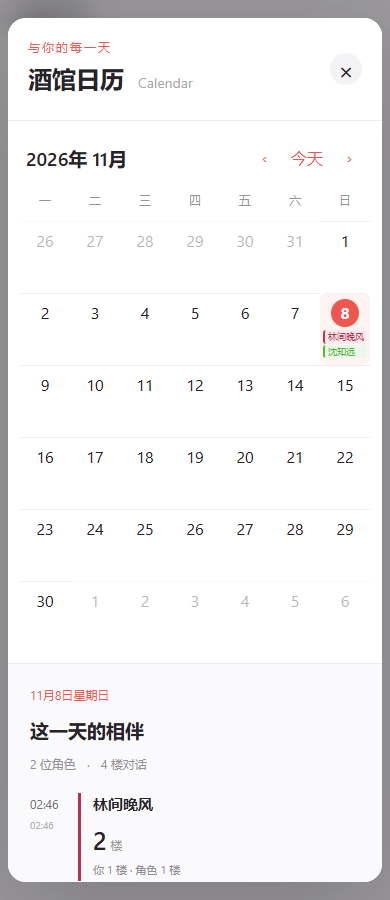
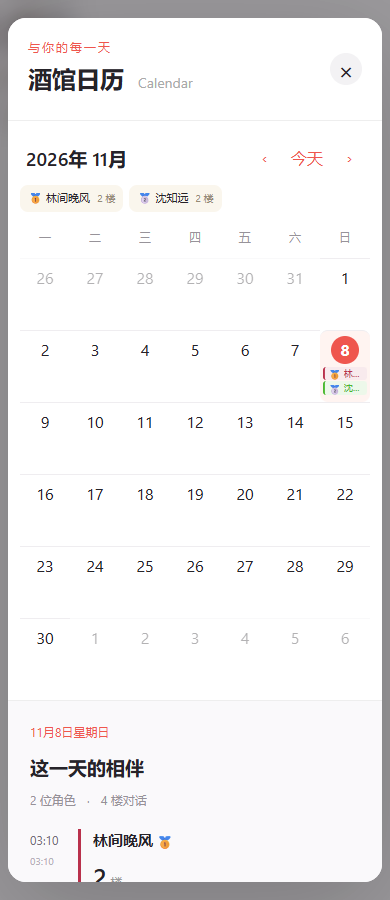
Add chat archive navigation and monthly top-three medals

diff --git a/index.js b/index.js
@@ -13,16 +13,52 @@
  const esc = s => String(s ?? '').replace(/[&<>"']/g,c=>({'&':'&amp;','<':'&lt;','>':'&gt;','"':'&quot;',"'":'&#39;'}[c]));
  const color = s => {let h=0; for(const c of s) h=(h*31+c.charCodeAt(0))|0; return `hsl(${Math.abs(h)%360} 58% 46%)`;};
  let days={}, selected=key(new Date()), month=new Date(new Date().getFullYear(),new Date().getMonth(),1), busy=false, status='点击刷新，读取历史聊天', scanned=false, lastFocus;
- function aggregate(target, seen, char, messages) {
+ function aggregate(target, seen, char, messages, fileName='') {
    for(const m of messages) {
      if(typeof m?.mes!=='string'||m.is_system) continue;
      const d=dateOf(m.send_date); if(!d) continue;
      const fingerprint=JSON.stringify([d.getTime(),!!m.is_user,m.mes]);
-     if(seen.has(fingerprint)) continue; seen.add(fingerprint);
      const bucket=target[key(d)] ||= {};
-     const item=bucket[char.avatar] ||= {name:char.name,avatar:char.avatar,user:0,char:0,first:d.getTime(),last:d.getTime()};
+     const item=bucket[char.avatar] ||= {name:char.name,avatar:char.avatar,user:0,char:0,first:d.getTime(),last:d.getTime(),files:[]};
+     if(fileName&&!item.files.includes(fileName))item.files.push(fileName);
+     if(seen.has(fingerprint)) continue; seen.add(fingerprint);
      item[m.is_user?'user':'char']++; item.first=Math.min(item.first,d.getTime()); item.last=Math.max(item.last,d.getTime());
    }
+ }
+ function monthlyRanks(data, prefix){
+   const totals=new Map();
+   for(const [day,chars] of Object.entries(data)){
+     if(!day.startsWith(prefix+'-'))continue;
+     for(const r of Object.values(chars)){
+       const item=totals.get(r.avatar)||{avatar:r.avatar,name:r.name,total:0};
+       item.total+=r.user+r.char;totals.set(r.avatar,item);
+     }
+   }
+   return [...totals.values()].filter(r=>r.total>0).sort((a,b)=>b.total-a.total||a.avatar.localeCompare(b.avatar,'zh-CN')).slice(0,3);
+ }
+ let jumping=false;
+ async function jumpToChat(avatar,fileName){
+   if(jumping)return; jumping=true;
+   status='正在打开聊天存档…';render();
+   try{
+     const context=ctx();
+     const id=(context?.characters||[]).findIndex(c=>c?.avatar===avatar);
+     if(id<0)throw Error('角色已不存在，请刷新记录');
+     const list=await post('/api/characters/chats',{avatar_url:avatar});
+     if(!Object.values(list||{}).some(f=>f?.file_name?.replace(/\.jsonl?$/i,'')===fileName))throw Error('存档已删除或改名，请刷新记录');
+     if(context.isGenerating)throw Error('请等待当前回复生成完成后再跳转');
+     if(typeof context.selectCharacterById==='function')await context.selectCharacterById(id,{chatFile:fileName});
+     else{
+       scriptModule ||= import('/script.js').catch(()=>null);
+       const mod=await scriptModule;
+       if(typeof mod?.openCharacterChat!=='function')throw Error('此版本不支持存档跳转');
+       await mod.openCharacterChat(fileName,avatar);
+     }
+     const after=ctx();
+     if(String(after?.characterId)!==String(id)||after?.characters?.[id]?.chat!==fileName)throw Error('未完成切换，聊天可能正在生成或保存，请稍后重试');
+     status='已打开聊天存档';close();
+   }catch(error){status=`跳转失败：${error.message}`;render();}
+   finally{jumping=false;render();}
  }
  let scriptModule;
  async function post(path,body) {
@@ -48,7 +84,7 @@
            try {
              const data=await post('/api/chats/get',{ch_name:char.name,avatar_url:char.avatar,file_name:file.file_name.replace(/\.jsonl?$/i,'')});
              const messages=Array.isArray(data)?data:Array.isArray(data?.chat)?data.chat:Array.isArray(data?.messages)?data.messages:Object.values(data||{});
-             aggregate(next,seen,char,messages);
+             aggregate(next,seen,char,messages,file.file_name.replace(/\.jsonl?$/i,''));
            } catch {errors++;}
          }
        } catch {errors++;}
@@ -60,19 +96,21 @@
  function render() {
    const root=document.querySelector('#tcal'); if(!root)return;
    const title=`${month.getFullYear()}年 ${month.getMonth()+1}月`;
+   const leaders=monthlyRanks(days,key(month).slice(0,7));
+   const badge=avatar=>{const rank=leaders.findIndex(r=>r.avatar===avatar);return rank<0?'':`<span class="tc-medal" title="${month.getMonth()+1}月第${rank+1}名 · ${leaders[rank].total}楼" aria-label="本月第${rank+1}名">${['🥇','🥈','🥉'][rank]}</span>`;};
    const start=new Date(month.getFullYear(),month.getMonth(),1); start.setDate(1-(start.getDay()+6)%7);
    let cells='';
    for(let i=0;i<42;i++){
      const d=new Date(start);d.setDate(start.getDate()+i); const k=key(d), rows=Object.values(days[k]||{});
-     cells+=`<button class="tc-day ${d.getMonth()!==month.getMonth()?'tc-out':''} ${k===selected?'tc-selected':''} ${k===key(new Date())?'tc-today':''}" data-day="${k}" aria-label="${k}，${rows.length} 位角色" aria-pressed="${k===selected}"><span class="tc-number">${d.getDate()}</span><span class="tc-events">${rows.slice(0,2).map(r=>`<span class="tc-chip" style="--char-color:${color(r.avatar)}">${esc(r.name)}</span>`).join('')}${rows.length>2?`<span class="tc-more">+${rows.length-2} 位</span>`:''}</span><span class="tc-dots">${rows.slice(0,4).map(r=>`<i style="background:${color(r.avatar)}"></i>`).join('')}</span></button>`;
+     cells+=`<button class="tc-day ${d.getMonth()!==month.getMonth()?'tc-out':''} ${k===selected?'tc-selected':''} ${k===key(new Date())?'tc-today':''}" data-day="${k}" aria-label="${k}，${rows.length} 位角色" aria-pressed="${k===selected}"><span class="tc-number">${d.getDate()}</span><span class="tc-events">${rows.slice(0,2).map(r=>`<span class="tc-chip" style="--char-color:${color(r.avatar)}">${badge(r.avatar)}${esc(r.name)}</span>`).join('')}${rows.length>2?`<span class="tc-more">+${rows.length-2} 位</span>`:''}</span><span class="tc-dots">${rows.slice(0,4).map(r=>`<i style="background:${color(r.avatar)}"></i>`).join('')}</span></button>`;
    }
    const rows=Object.values(days[selected]||{}).sort((a,b)=>a.first-b.first), total=rows.reduce((s,r)=>s+r.user+r.char,0);
    const date=new Date(selected+'T12:00:00');
    const time=t=>new Date(t).toLocaleTimeString('zh-CN',{hour:'2-digit',minute:'2-digit'});
-   root.innerHTML=`<section class="tc-shell" role="dialog" aria-modal="true" aria-label="酒馆日历"><header><div><span class="tc-eyebrow">与你的每一天</span><h1>酒馆日历<span>Calendar</span></h1></div><button data-action="close" class="tc-close" aria-label="关闭日历">×</button></header><div class="tc-body"><main><nav><h2>${title}</h2><div><button data-action="prev" aria-label="上个月">‹</button><button data-action="today">今天</button><button data-action="next" aria-label="下个月">›</button></div></nav><div class="tc-week">${['一','二','三','四','五','六','日'].map(x=>`<span>${x}</span>`).join('')}</div><div class="tc-grid">${cells}</div></main><aside><div class="tc-date">${date.toLocaleDateString('zh-CN',{month:'long',day:'numeric',weekday:'long'})}</div><h2>这一天的相伴</h2><p class="tc-summary">${rows.length} 位角色 <span>·</span> ${total} 楼对话</p><div class="tc-agenda">${rows.length?rows.map(r=>`<article style="--char-color:${color(r.avatar)}"><div class="tc-time">${time(r.first)}<small>${time(r.last)}</small></div><div class="tc-card"><strong>${esc(r.name)}</strong><b>${r.user+r.char}<small> 楼</small></b><p>你 ${r.user} 楼 · 角色 ${r.char} 楼</p></div></article>`).join(''):`<div class="tc-empty"><span>☷</span><p>${busy?'正在寻找聊天足迹…':scanned?'这一天，还没有聊天足迹':'把和 TA 的日常，收进日历'}</p><small>每一次对话，都是相伴的印记。</small></div>`}</div></aside></div><footer><span role="status">${esc(status)}</span><button data-action="refresh" ${busy?'disabled':''}>${busy?'整理中…':'↻ 刷新记录'}</button></footer><div class="tc-note">按本机时区统计单人聊天；双方每条消息各计 1 楼，不含系统消息。相同时间、身份与正文的分支副本只计一次。重生成的候选回复不额外计数。</div></section>`;
+   root.innerHTML=`<section class="tc-shell" role="dialog" aria-modal="true" aria-label="酒馆日历"><header><div><span class="tc-eyebrow">与你的每一天</span><h1>酒馆日历<span>Calendar</span></h1></div><button data-action="close" class="tc-close" aria-label="关闭日历">×</button></header><div class="tc-body"><main><nav><h2>${title}</h2><div><button data-action="prev" aria-label="上个月">‹</button><button data-action="today">今天</button><button data-action="next" aria-label="下个月">›</button></div></nav><div class="tc-podium" aria-label="本月聊天前三名">${leaders.map((r,i)=>`<span title="同楼数按角色标识排序">${['🥇','🥈','🥉'][i]} ${esc(r.name)} <small>${r.total} 楼</small></span>`).join('')}</div><div class="tc-week">${['一','二','三','四','五','六','日'].map(x=>`<span>${x}</span>`).join('')}</div><div class="tc-grid">${cells}</div></main><aside><div class="tc-date">${date.toLocaleDateString('zh-CN',{month:'long',day:'numeric',weekday:'long'})}</div><h2>这一天的相伴</h2><p class="tc-summary">${rows.length} 位角色 <span>·</span> ${total} 楼对话</p><div class="tc-agenda">${rows.length?rows.map(r=>`<article style="--char-color:${color(r.avatar)}"><div class="tc-time">${time(r.first)}<small>${time(r.last)}</small></div><div class="tc-card"><strong>${esc(r.name)}${badge(r.avatar)}</strong><b>${r.user+r.char}<small> 楼</small></b><p>你 ${r.user} 楼 · 角色 ${r.char} 楼</p><div class="tc-archives">${(r.files||[]).map(file=>`<button data-action="jump" data-avatar="${esc(r.avatar)}" data-file="${esc(file)}" ${jumping?'disabled':''} title="打开此聊天存档">↗ ${esc(file)}</button>`).join('')}</div></div></article>`).join(''):`<div class="tc-empty"><span>☷</span><p>${busy?'正在寻找聊天足迹…':scanned?'这一天，还没有聊天足迹':'把和 TA 的日常，收进日历'}</p><small>每一次对话，都是相伴的印记。</small></div>`}</div></aside></div><footer><span role="status">${esc(status)}</span><button data-action="refresh" ${busy?'disabled':''}>${busy?'整理中…':'↻ 刷新记录'}</button></footer><div class="tc-note">按本机时区统计单人聊天；双方每条消息各计 1 楼，不含系统消息。相同时间、身份与正文的分支副本只计一次。重生成的候选回复不额外计数。</div></section>`;
  }
  function close(){document.querySelector('#tcal')?.remove();lastFocus?.focus();}
- function open(){if(document.querySelector('#tcal'))return;lastFocus=document.activeElement;const root=document.createElement('div');root.id='tcal';document.body.append(root);root.addEventListener('click',e=>{if(e.target===root){close();return;}const b=e.target.closest('button');if(!b)return;if(b.dataset.day){selected=b.dataset.day;render();return;}switch(b.dataset.action){case'close':close();break;case'prev':month.setMonth(month.getMonth()-1);render();break;case'next':month.setMonth(month.getMonth()+1);render();break;case'today':selected=key(new Date());month=new Date(new Date().getFullYear(),new Date().getMonth(),1);render();break;case'refresh':refresh();}});root.addEventListener('keydown',e=>{if(e.key==='Escape')close();if(e.key==='Tab'){const items=[...root.querySelectorAll('button:not(:disabled)')];if(e.shiftKey&&document.activeElement===items[0]){e.preventDefault();items.at(-1).focus();}else if(!e.shiftKey&&document.activeElement===items.at(-1)){e.preventDefault();items[0].focus();}}});render();root.querySelector('button').focus();if(!scanned)refresh();}
+ function open(){if(document.querySelector('#tcal'))return;lastFocus=document.activeElement;const root=document.createElement('div');root.id='tcal';document.body.append(root);root.addEventListener('click',e=>{if(e.target===root){close();return;}const b=e.target.closest('button');if(!b)return;if(b.dataset.day){selected=b.dataset.day;month=new Date(selected+'T12:00:00');month.setDate(1);render();return;}switch(b.dataset.action){case'jump':jumpToChat(b.dataset.avatar,b.dataset.file);break;case'close':close();break;case'prev':month.setMonth(month.getMonth()-1);selected=key(month);render();break;case'next':month.setMonth(month.getMonth()+1);selected=key(month);render();break;case'today':selected=key(new Date());month=new Date(new Date().getFullYear(),new Date().getMonth(),1);render();break;case'refresh':refresh();}});root.addEventListener('keydown',e=>{if(e.key==='Escape')close();if(e.key==='Tab'){const items=[...root.querySelectorAll('button:not(:disabled)')];if(e.shiftKey&&document.activeElement===items[0]){e.preventDefault();items.at(-1).focus();}else if(!e.shiftKey&&document.activeElement===items.at(-1)){e.preventDefault();items[0].focus();}}});render();root.querySelector('button').focus();if(!scanned)refresh();}
  function mount(){
    const host=document.querySelector('#extensionsMenu')||document.querySelector('#extensions_menu');
    if(host&&!document.querySelector('#tcal-launch')){
@@ -88,6 +126,6 @@
    }
  }
  function boot(){mount();const observer=new MutationObserver(mount);observer.observe(document.body,{childList:true,subtree:true});}
- window.TavernCalendar={open,refresh,dateOf,aggregate};
+ window.TavernCalendar={open,refresh,dateOf,aggregate,monthlyRanks};
  if(document.readyState==='loading')document.addEventListener('DOMContentLoaded',boot,{once:true});else boot();
 })();

diff --git a/style.css b/style.css
@@ -1,1 +1,11 @@
 #tcal{position:fixed;inset:0;z-index:99990;background:#25202775;backdrop-filter:blur(12px);display:flex;align-items:center;justify-content:center;padding:24px;font:14px/1.5 -apple-system,BlinkMacSystemFont,"Segoe UI","Microsoft YaHei",sans-serif;color:#262329;text-shadow:none}#tcal *{box-sizing:border-box}#tcal button{font:inherit;cursor:pointer;border:0;box-shadow:none;text-shadow:none;background:transparent;color:inherit;margin:0}#tcal button:focus-visible{outline:2px solid #ee564f;outline-offset:-2px}#tcal .tc-shell{width:1040px;max-height:94dvh;overflow:auto;background:#fff;border-radius:24px;box-shadow:0 25px 100px #0003}#tcal header{padding:28px 32px 20px;display:flex;justify-content:space-between;align-items:center;border-bottom:1px solid #eee}#tcal .tc-eyebrow{color:#ef564e;font-size:12px;letter-spacing:2px}#tcal h1{font-size:28px;margin:4px 0;font-weight:650;color:#262329}#tcal h1 span{font-size:14px;font-weight:400;color:#aaa;margin-left:14px}#tcal .tc-close{background:#f3f2f4;border-radius:50%;width:32px;height:32px;font-size:24px;line-height:1}#tcal .tc-body{display:grid;grid-template-columns:minmax(0,1fr) 310px}#tcal main{padding:24px 28px}#tcal nav{display:flex;justify-content:space-between;align-items:center;margin-bottom:22px}#tcal h2{font-size:21px;margin:0;font-weight:600;color:#262329}#tcal nav button{color:#ef564e;padding:5px 12px;font-size:16px}#tcal nav button:hover{background:#fff1ee;border-radius:8px}#tcal .tc-week,#tcal .tc-grid{display:grid;grid-template-columns:repeat(7,minmax(0,1fr))}#tcal .tc-week{color:#979399;text-align:center;font-size:12px;padding-bottom:12px}#tcal .tc-day{min-width:0;height:85px;border-top:1px solid #efedf0;text-align:left;padding:5px 3px;display:flex;flex-direction:column;align-items:stretch;gap:2px;border-radius:0}#tcal .tc-number{display:flex;width:28px;height:28px;align-items:center;justify-content:center;align-self:center;font-size:16px;border-radius:50%}#tcal .tc-out{opacity:.35}#tcal .tc-today .tc-number{color:#ef564e;font-weight:700}#tcal .tc-selected{background:#fff4f1;border-radius:8px}#tcal .tc-selected .tc-number{background:#ef564e;color:white}#tcal .tc-chip{display:block;font-size:10px;background:color-mix(in srgb,var(--char-color) 10%,white);color:var(--char-color);border-left:2px solid var(--char-color);padding:0 3px;margin:1px 0;border-radius:3px;overflow:hidden;text-overflow:ellipsis;white-space:nowrap}#tcal .tc-more{font-size:9px;color:#888}#tcal .tc-dots{display:none}#tcal aside{background:#faf9fb;border-left:1px solid #eee;padding:28px 22px}#tcal .tc-date{color:#ef564e;font-size:12px;margin-bottom:12px}#tcal .tc-summary{color:#969198;font-size:12px;margin:10px 0 28px}#tcal .tc-summary span{margin:0 8px}#tcal article{display:flex;gap:12px;margin-bottom:20px}#tcal .tc-time{font-size:12px;color:#746e78;min-width:36px;padding-top:2px}#tcal .tc-time small{display:block;color:#b6b0ba;font-size:10px;margin-top:5px}#tcal .tc-card{border-left:3px solid var(--char-color);padding:0 0 0 12px;flex:1;min-width:0}#tcal .tc-card strong{display:block;overflow-wrap:anywhere;font-size:15px;font-weight:600}#tcal .tc-card b{display:block;font-size:25px;font-weight:600;margin-top:6px}#tcal .tc-card b small{font-size:12px;font-weight:400;color:#999}#tcal .tc-card p{font-size:11px;color:#918b96;margin:3px 0}#tcal .tc-empty{text-align:center;color:#9e98a2;padding:40px 0}#tcal .tc-empty>span{font-size:42px;color:#d2cbd5}#tcal .tc-empty small{font-size:11px}#tcal footer{border-top:1px solid #eee;display:flex;align-items:center;justify-content:space-between;gap:12px;padding:16px 28px;font-size:11px;color:#969198}#tcal footer button{color:#ef564e;white-space:nowrap;font-size:13px}#tcal footer button:disabled{opacity:.5;cursor:wait}#tcal .tc-note{padding:0 28px 18px;color:#aaa;font-size:10px}#tcal-launch{cursor:pointer}@media(max-width:700px){#tcal{padding:8px}#tcal .tc-shell{border-radius:18px;max-height:96dvh}#tcal header{padding:20px}#tcal h1{font-size:24px}#tcal .tc-body{display:block}#tcal main{padding:20px 12px 10px}#tcal nav{margin-bottom:16px;padding:0 6px}#tcal h2{font-size:19px}#tcal .tc-day{height:72px}#tcal .tc-chip{font-size:9px}#tcal aside{border-left:0;border-top:1px solid #eee;padding:22px}#tcal .tc-summary{margin-bottom:20px}#tcal .tc-empty{padding:10px}#tcal footer{padding:14px 20px}#tcal .tc-note{padding:0 20px 16px}}
+
+#tcal .tc-medal{font-size:13px;display:inline-block;margin-left:3px;vertical-align:middle;line-height:1.2}
+#tcal .tc-chip .tc-medal{font-size:10px;margin:0 2px 0 0}
+#tcal .tc-podium{display:flex;flex-wrap:wrap;gap:6px;margin:-6px 0 16px}
+#tcal .tc-podium>span{background:#faf6ed;border-radius:8px;padding:5px 8px;font-size:11px;overflow-wrap:anywhere}
+#tcal .tc-podium small{color:#958a76;margin-left:4px;font-size:10px}
+#tcal .tc-archives{display:flex;flex-direction:column;gap:5px;margin-top:10px}
+#tcal .tc-archives button{color:#ce6258;background:#fff;border:1px solid #eee3e0;border-radius:6px;text-align:left;font-size:11px;padding:6px 8px;overflow-wrap:anywhere;white-space:normal;min-width:0}
+#tcal .tc-archives button:hover{background:#fff1ed}
+#tcal .tc-archives button:disabled{opacity:.5;cursor:wait}
